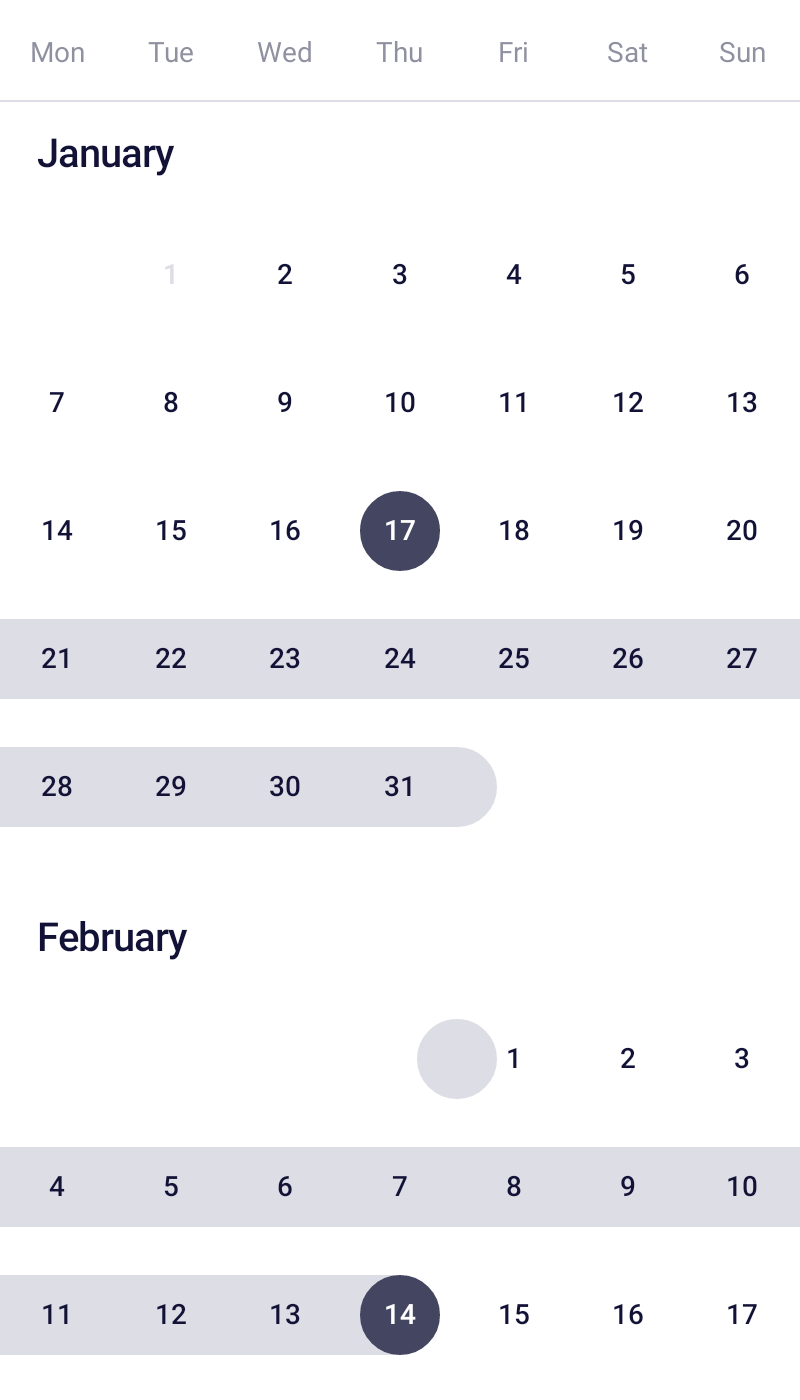
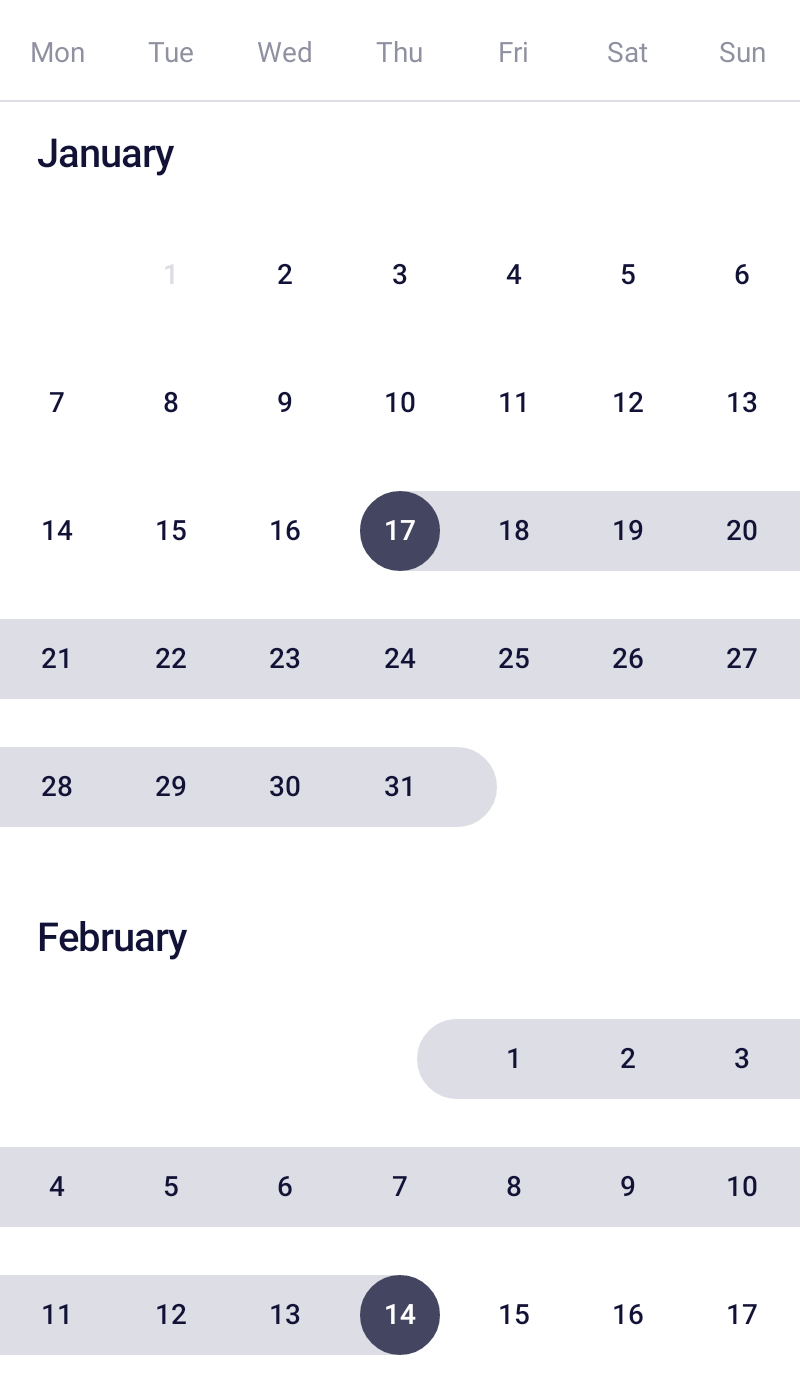
- Fix range drawing problem

Changed region(s): [[0.5312, 0.3379, 1.0, 0.43], [0.5938, 0.7064, 1.0, 0.7986]]

diff --git a/Backpack/src/main/java/net/skyscanner/backpack/calendar/view/MonthView.kt b/Backpack/src/main/java/net/skyscanner/backpack/calendar/view/MonthView.kt
@@ -292,9 +292,9 @@ internal class MonthView @JvmOverloads constructor(
             drawEdgeCircles(canvas, calendarDay, controller.selectedRange, paddingX, x, y)
             val nextDay = calendarDay.plusDays(1)
             if (controller.selectedRange.getDrawType(nextDay) != CalendarRange.DrawType.NONE) {
-              drawRect(canvas, startX - 1 + paddingX, startYBase + selectedDayCircleRadius, stopX + 1, startYBase - selectedDayCircleRadius)
+              drawRect(canvas, startX - 1 + paddingX, startYBase - selectedDayCircleRadius, stopX + 1, startYBase + selectedDayCircleRadius)
             } else {
-              drawRect(canvas, startX - 1, startYBase + selectedDayCircleRadius, stopX - paddingX + 1, startYBase - selectedDayCircleRadius)
+              drawRect(canvas, startX - 1, startYBase - selectedDayCircleRadius, stopX - paddingX + 1, startYBase + selectedDayCircleRadius)
             }
           }
 
@@ -323,7 +323,7 @@ internal class MonthView @JvmOverloads constructor(
         }
         CalendarRange.DrawType.RANGE -> {
           val halfCellWidth = (stopX - startX) / 2
-          drawRect(canvas, startX - 1, startYBase + selectedDayCircleRadius, stopX + 1, startYBase - selectedDayCircleRadius)
+          drawRect(canvas, startX - 1, startYBase - selectedDayCircleRadius, stopX + 1, startYBase + selectedDayCircleRadius)
           drawEdgeCircles(canvas, calendarDay, controller.selectedRange, halfCellWidth, x, y)
         }
         CalendarRange.DrawType.NONE -> {
